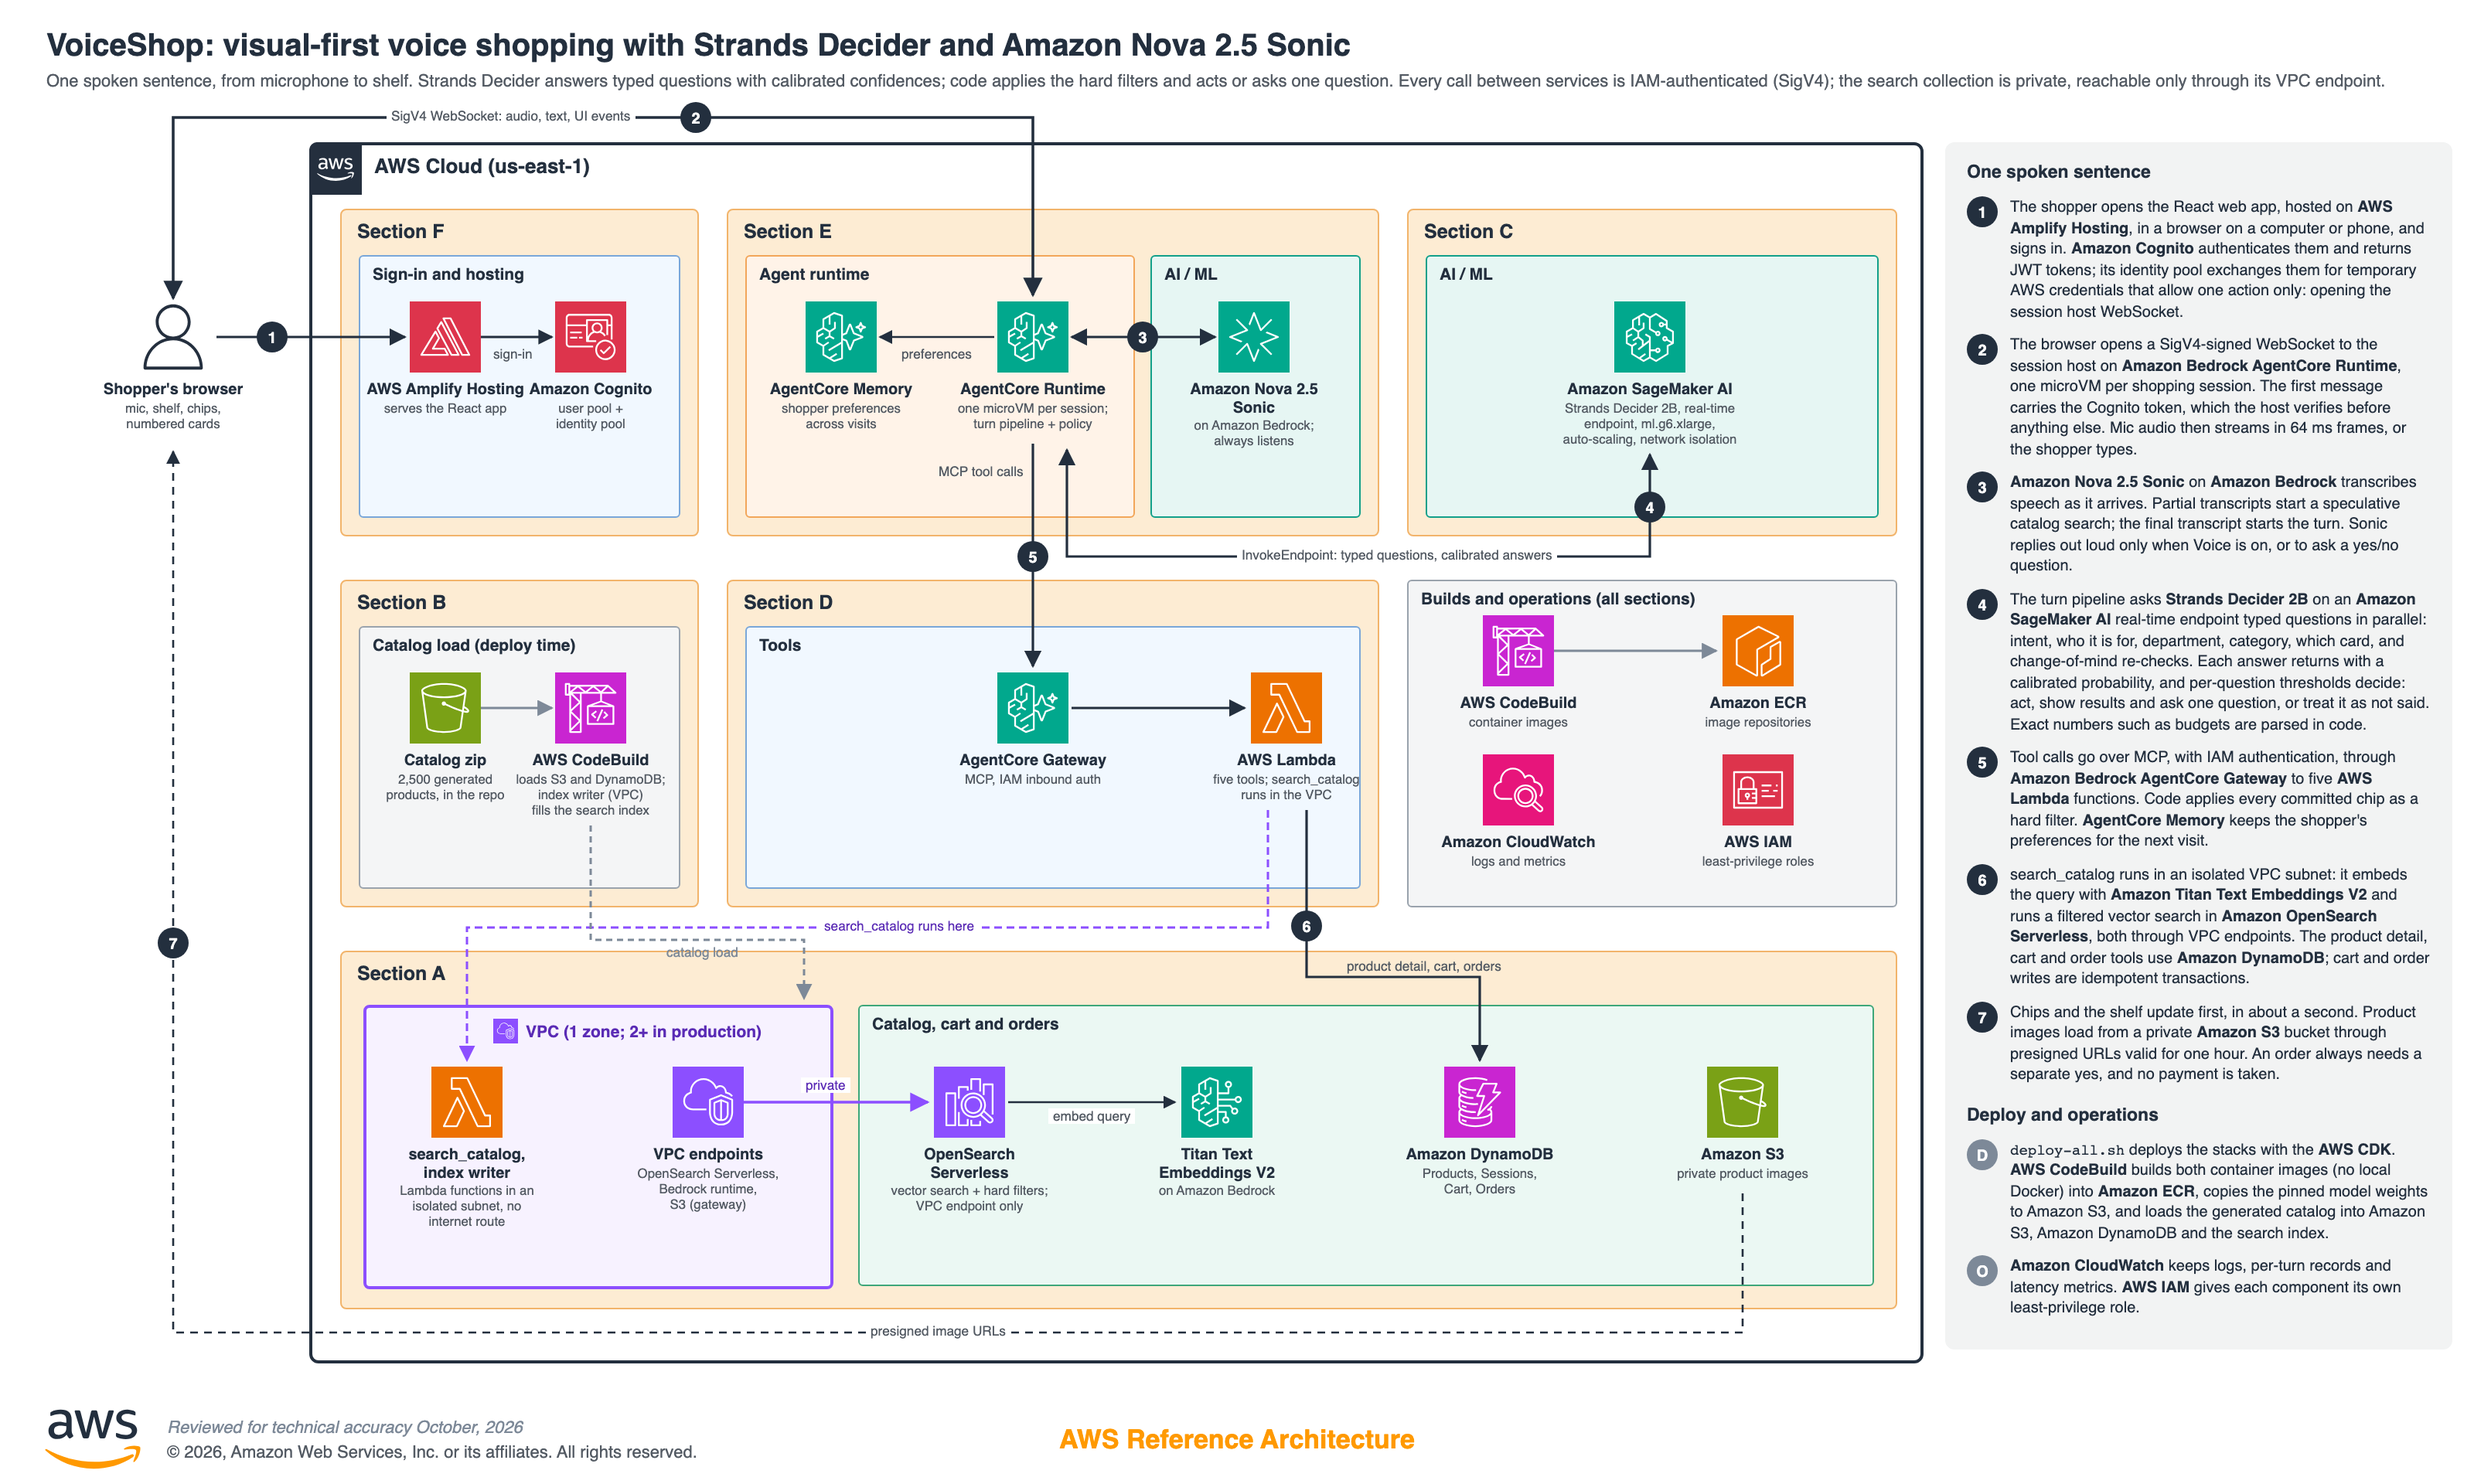
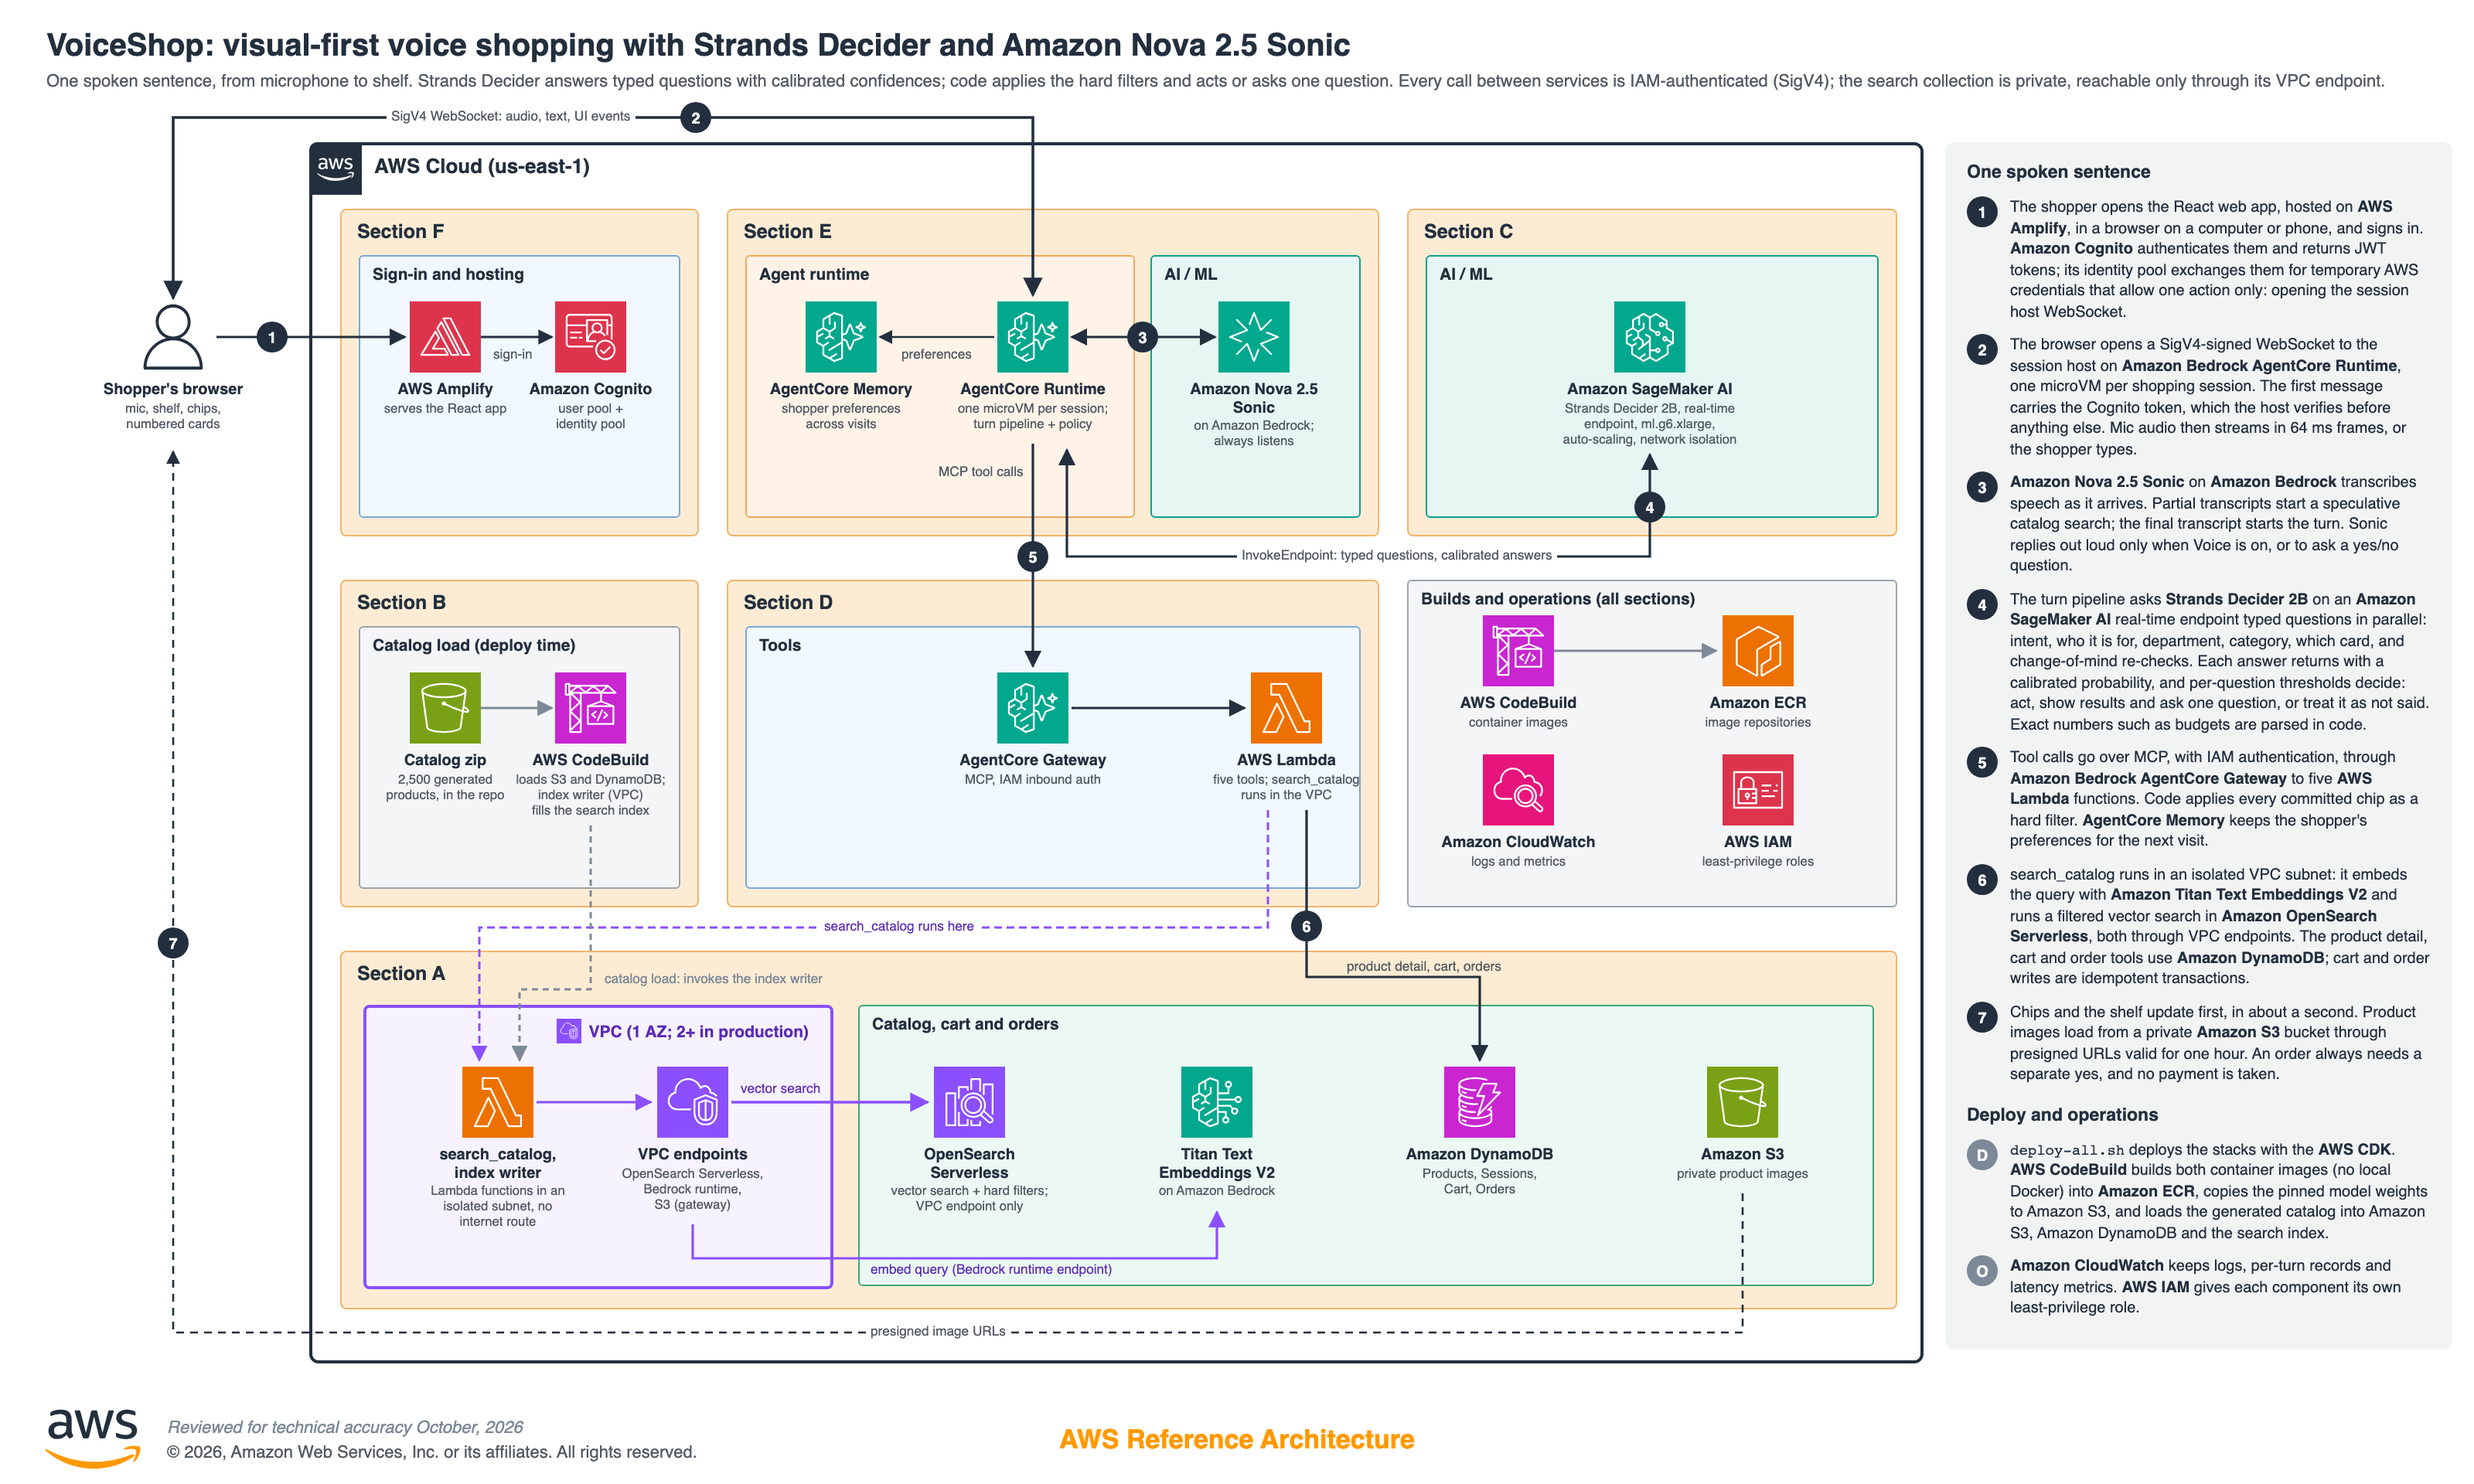
Architecture diagram: AWS Amplify, 1 AZ, catalog load to the index writer, embeddings and search through the VPC endpoints

diff --git a/assets/architecture-diagram-source.html b/assets/architecture-diagram-source.html
@@ -67,7 +67,7 @@
   <!-- Row 1: F frontend, E session host, C decision model -->
   <div class="section" style="left:220px;top:135px;width:230px;height:210px;"><div class="section-label">Section F</div></div>
   <div class="sub" style="left:232px;top:165px;width:206px;height:168px;background:#F1F8FF;border-color:#7AA7D9;"><div class="sub-label">Sign-in and hosting</div></div>
-  <div class="svc" style="left:236px;top:195px;"><img src="icons/amplify.svg"/><div class="n">AWS Amplify Hosting</div><div class="d">serves the React app</div></div>
+  <div class="svc" style="left:236px;top:195px;"><img src="icons/amplify.svg"/><div class="n">AWS Amplify</div><div class="d">serves the React app</div></div>
   <div class="svc" style="left:330px;top:195px;"><img src="icons/cognito.svg"/><div class="n">Amazon Cognito</div><div class="d">user pool +<br/>identity pool</div></div>
 
   <div class="section" style="left:470px;top:135px;width:420px;height:210px;"><div class="section-label">Section E</div></div>
@@ -101,10 +101,10 @@
   <!-- Row 3: A backend infrastructure -->
   <div class="section" style="left:220px;top:615px;width:1005px;height:230px;"><div class="section-label">Section A</div></div>
   <div class="vpc" style="left:235px;top:650px;width:300px;height:180px;">
-    <div class="vpc-label" style="left:76px;top:7px;background:transparent;"><img src="icons/vpc.svg"/>VPC (1 zone; 2+ in production)</div>
+    <div class="vpc-label" style="right:8px;top:7px;background:transparent;"><img src="icons/vpc.svg"/>VPC (1 AZ; 2+ in production)</div>
   </div>
-  <div class="svc" style="left:244px;top:690px;width:116px;"><img src="icons/lambda.svg"/><div class="n">search_catalog,<br/>index writer</div><div class="d">Lambda functions in an<br/>isolated subnet, no<br/>internet route</div></div>
-  <div class="svc" style="left:400px;top:690px;width:116px;"><img src="icons/vpc.svg"/><div class="n">VPC endpoints</div><div class="d">OpenSearch Serverless,<br/>Bedrock runtime,<br/>S3 (gateway)</div></div>
+  <div class="svc" style="left:264px;top:690px;width:116px;"><img src="icons/lambda.svg"/><div class="n">search_catalog,<br/>index writer</div><div class="d">Lambda functions in an<br/>isolated subnet, no<br/>internet route</div></div>
+  <div class="svc" style="left:390px;top:690px;width:116px;"><img src="icons/vpc.svg"/><div class="n">VPC endpoints</div><div class="d">OpenSearch Serverless,<br/>Bedrock runtime,<br/>S3 (gateway)</div></div>
   <div class="sub" style="left:555px;top:650px;width:655px;height:180px;background:#EBF8F3;border-color:#3FA77A;"><div class="sub-label">Catalog, cart and orders</div></div>
   <div class="svc" style="left:575px;top:690px;"><img src="icons/opensearch.svg"/><div class="n">OpenSearch Serverless</div><div class="d">vector search + hard filters;<br/>VPC endpoint only</div></div>
   <div class="svc" style="left:735px;top:690px;"><img src="icons/bedrock.svg"/><div class="n">Titan Text Embeddings V2</div><div class="d">on Amazon Bedrock</div></div>
@@ -126,13 +126,14 @@
     <path d="M668 287 V431" stroke="#232F3E" stroke-width="1.6" fill="none" marker-end="url(#arr)"/>
     <path d="M693 458 H805" stroke="#232F3E" stroke-width="1.6" fill="none" marker-end="url(#arr)"/>
     <path d="M845 524 V632 H957 V686" stroke="#232F3E" stroke-width="1.6" fill="none" marker-end="url(#arr)"/>
-    <path d="M820 524 V600 H302 V686" stroke="#8C4FFF" stroke-width="1.5" stroke-dasharray="5,3" fill="none" marker-end="url(#arrv)"/>
-    <path d="M477 713 H600" stroke="#8C4FFF" stroke-width="1.8" fill="none" marker-end="url(#arrv)"/>
-    <path d="M652 713 H760" stroke="#232F3E" stroke-width="1.2" fill="none" marker-end="url(#arr)"/>
+    <path d="M820 524 V600 H310 V686" stroke="#8C4FFF" stroke-width="1.5" stroke-dasharray="5,3" fill="none" marker-end="url(#arrv)"/>
+    <path d="M347 713 H421" stroke="#8C4FFF" stroke-width="1.6" fill="none" marker-end="url(#arrv)"/>
+    <path d="M473 713 H600" stroke="#8C4FFF" stroke-width="1.8" fill="none" marker-end="url(#arrv)"/>
+    <path d="M448 792 V814 H787 V784" stroke="#8C4FFF" stroke-width="1.6" fill="none" marker-end="url(#arrv)"/>
     <path d="M1127 772 V862 H112 V292" stroke="#232F3E" stroke-width="1.3" stroke-dasharray="5,4" fill="none" marker-end="url(#arr)"/>
     <path d="M311 218 H357" stroke="#232F3E" stroke-width="1.4" fill="none" marker-end="url(#arr)"/>
     <path d="M311 458 H357" stroke="#7D8998" stroke-width="1.5" fill="none" marker-end="url(#arrg)"/>
-    <path d="M382 534 V608 H520 V646" stroke="#7D8998" stroke-width="1.5" stroke-dasharray="4,3" fill="none" marker-end="url(#arrg)"/>
+    <path d="M382 534 V640 H336 V686" stroke="#7D8998" stroke-width="1.5" stroke-dasharray="4,3" fill="none" marker-end="url(#arrg)"/>
     <path d="M1005 421 H1110" stroke="#7D8998" stroke-width="1.5" fill="none" marker-end="url(#arrg)"/>
   </svg>
 
@@ -143,10 +144,10 @@
   <div class="tag clear" style="left:316px;top:224px;">sign-in</div>
   <div class="tag clear" style="left:868px;top:620px;">product detail, cart, orders</div>
   <div class="tag" style="left:560px;top:856px;">presigned image URLs</div>
-  <div class="tag" style="left:678px;top:717px;">embed query</div>
+  <div class="tag clear" style="left:560px;top:816px;color:#5A2BB5;">embed query (Bedrock runtime endpoint)</div>
   <div class="tag" style="left:530px;top:594px;color:#5A2BB5;">search_catalog runs here</div>
-  <div class="tag" style="left:518px;top:697px;color:#5A2BB5;">private</div>
-  <div class="tag clear" style="left:428px;top:611px;color:#7D8998;">catalog load</div>
+  <div class="tag clear" style="left:476px;top:699px;color:#5A2BB5;">vector search</div>
+  <div class="tag clear" style="left:388px;top:628px;color:#7D8998;">catalog load: invokes the index writer</div>
 
   <div class="step" style="left:166px;top:208px;">1</div>
   <div class="step" style="left:440px;top:66px;">2</div>
@@ -158,7 +159,7 @@
 
   <div class="notes">
     <h3>One spoken sentence</h3>
-    <div class="row"><div class="b">1</div><div class="x">The shopper opens the React web app, hosted on <b>AWS Amplify Hosting</b>, in a browser on a computer or phone, and signs in. <b>Amazon Cognito</b> authenticates them and returns JWT tokens; its identity pool exchanges them for temporary AWS credentials that allow one action only: opening the session host WebSocket.</div></div>
+    <div class="row"><div class="b">1</div><div class="x">The shopper opens the React web app, hosted on <b>AWS Amplify</b>, in a browser on a computer or phone, and signs in. <b>Amazon Cognito</b> authenticates them and returns JWT tokens; its identity pool exchanges them for temporary AWS credentials that allow one action only: opening the session host WebSocket.</div></div>
     <div class="row"><div class="b">2</div><div class="x">The browser opens a SigV4-signed WebSocket to the session host on <b>Amazon Bedrock AgentCore Runtime</b>, one microVM per shopping session. The first message carries the Cognito token, which the host verifies before anything else. Mic audio then streams in 64 ms frames, or the shopper types.</div></div>
     <div class="row"><div class="b">3</div><div class="x"><b>Amazon Nova 2.5 Sonic</b> on <b>Amazon Bedrock</b> transcribes speech as it arrives. Partial transcripts start a speculative catalog search; the final transcript starts the turn. Sonic replies out loud only when Voice is on, or to ask a yes/no question.</div></div>
     <div class="row"><div class="b">4</div><div class="x">The turn pipeline asks <b>Strands Decider 2B</b> on an <b>Amazon SageMaker AI</b> real-time endpoint typed questions in parallel: intent, who it is for, department, category, which card, and change-of-mind re-checks. Each answer returns with a calibrated probability, and per-question thresholds decide: act, show results and ask one question, or treat it as not said. Exact numbers such as budgets are parsed in code.</div></div>
